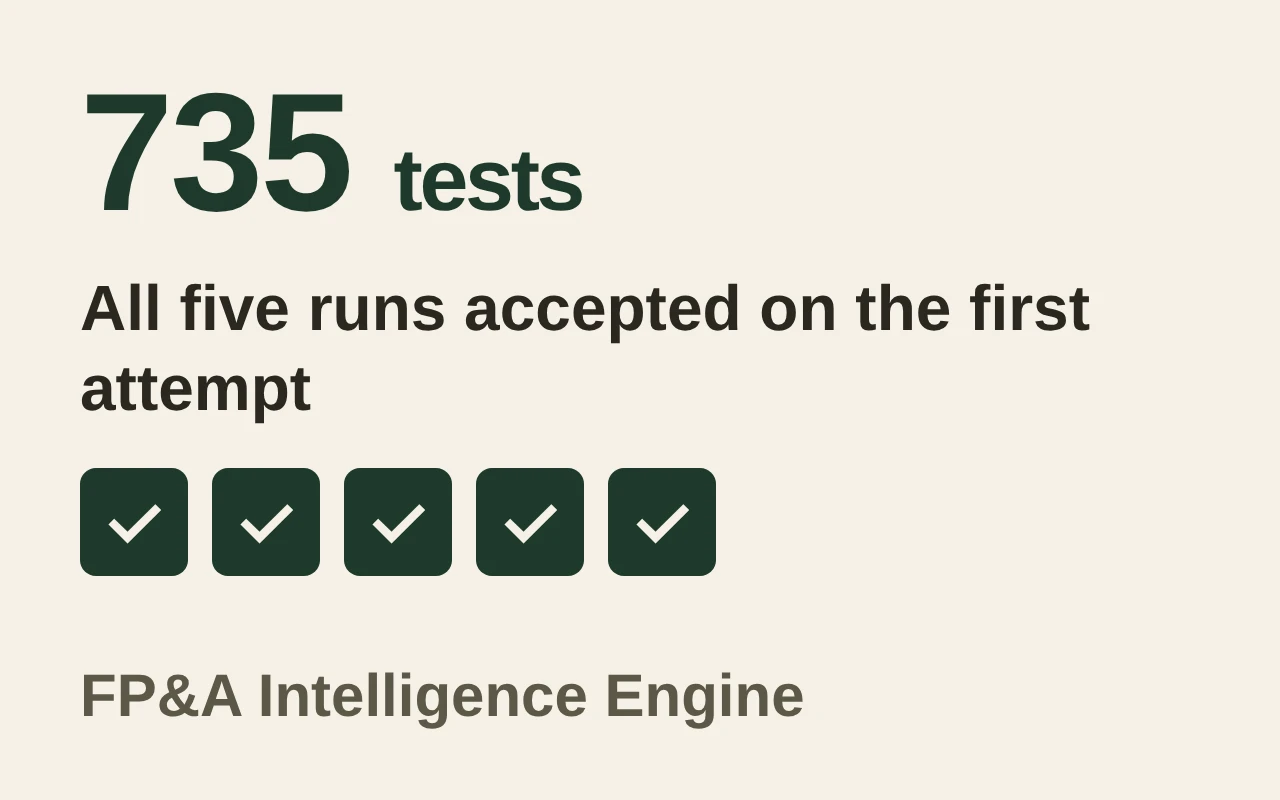
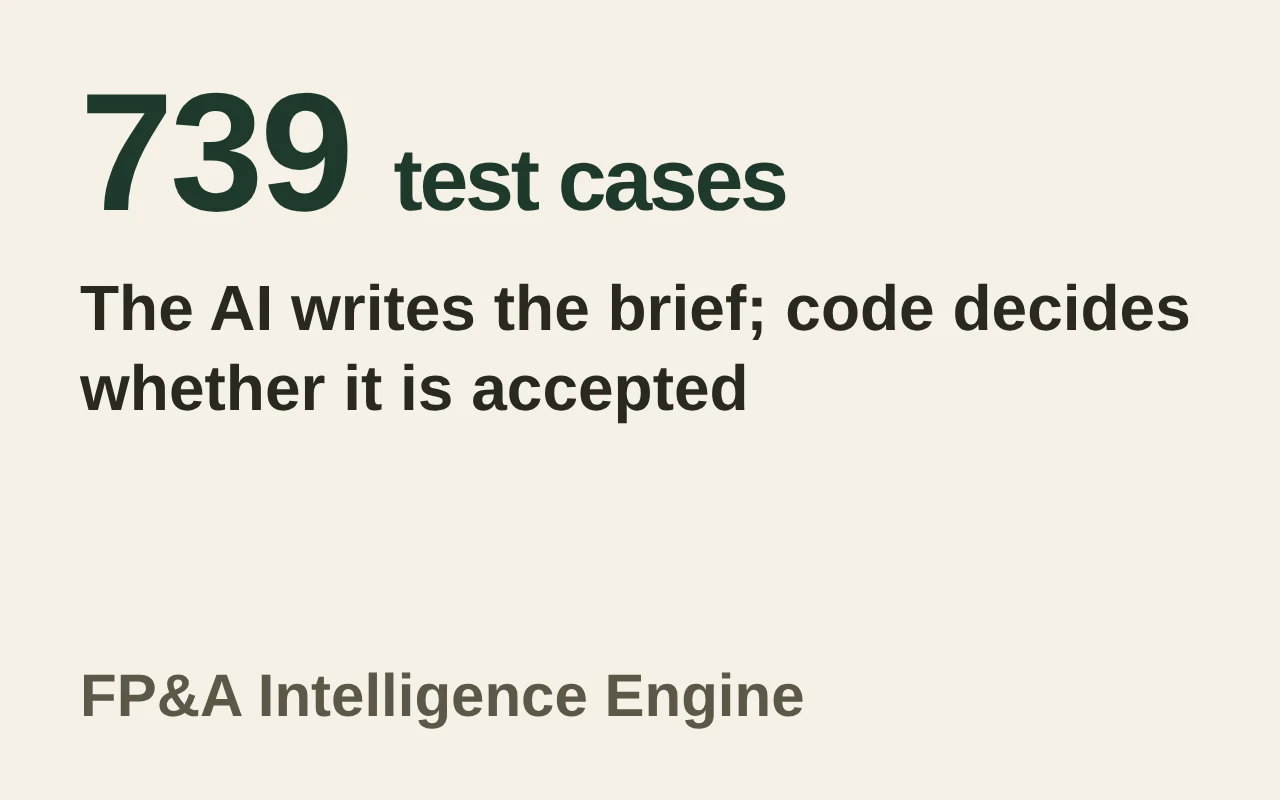
Engine page: say exactly what the validator checks, and what it does not
Copy and labels only, from the read-only audit of fpa-intelligence-engine and
its PR #5 (engine main c91e254).

- Hero, "The problem", "What it produces", "How it works": state what is
  checked (cited IDs exist; figures match a cited fact, reconciliation or
  validated evidence at the written precision; quoted text matches the curated
  excerpt) and what is not; the loader checks the curated benchmark, not the
  filings; statement type is chosen by the model and checked through its
  citations; an unquoted misattributed paraphrase can pass.
- New "What the validator does not check" list (existing section and list
  markup), linking to the engine README section of the same name.
- New "Corrections" note: the misquoted dealer-inventory sentence and the
  incomplete tariff entry found on Oct 30, 2026, corrected against
  Caterpillar's own transcript; the validator now ignores figures from
  unreviewed evidence; packet d726abc6... -> 5eeb00d3....
- The recorded run is labelled as run 1, the only run on the site, made before
  the corrections (engine cd82a39, packet d726abc6...); no live re-run is
  claimed. The five-run figures are attributed to the evaluation summary.
  scripts/export-engine-trace.py and the recorded run are unchanged.
- 735 tests -> 739 automated test cases (card, home Expertise, page).
- Card thumbnail re-rendered (739 test cases; the five-run check marks
  removed) and its alt text regenerated; the other thumbnails are
[…]

diff --git a/src/components/EngineProjectPage.tsx b/src/components/EngineProjectPage.tsx
@@ -8,6 +8,8 @@ import { MEASURE, STACK_BODY, STACK_HEAD, STACK_LABEL, STACK_ROW, STACK_TABLE, S
 
 const ENGINE_REPO = "https://github.com/2samfelix/fpa-intelligence-engine";
 const STATUS_DOC = `${ENGINE_REPO}/blob/main/docs/project_status.md`;
+const README_GAPS = `${ENGINE_REPO}#what-the-validator-does-not-check`;
+const CORRECTIONS_PR = `${ENGINE_REPO}/pull/5`;
 const CATERPILLAR_PAGE = "/projects/caterpillar-demand-quality";
 const TRACE_HEADERS: TraceHeaders = {
   statements: traceJson.statements.map(({ id, kind, severity, text }) => ({ id, kind, severity, text })),
@@ -20,7 +22,7 @@ const STEPS: { title: string; owner: string; body: string }[] = [
   {
     title: "Load and validate",
     owner: "Code",
-    body: "A deterministic loader reads sourced facts and checks them against their evidence.",
+    body: "A deterministic loader reads the hand-curated benchmark files and checks that every fact, source and reference lines up, and that each quote appears in the source excerpt stored with it. Nothing is read from the filings themselves.",
   },
   {
     title: "Calculate and reconcile",
@@ -30,7 +32,7 @@ const STEPS: { title: string; owner: string; body: string }[] = [
   {
     title: "Package",
     owner: "Code",
-    body: "The verified facts go into a fixed, hashed input packet, so every run can be traced to exactly what the model saw.",
+    body: "The facts that pass those checks go into a fixed, hashed input packet, so every run can be traced to exactly what the model saw.",
   },
   {
     title: "Write, then check",
@@ -41,16 +43,28 @@ const STEPS: { title: string; owner: string; body: string }[] = [
 
 const LIMITATIONS = [
   "It is one company and one quarter, with a hand-curated benchmark.",
-  "Five runs show consistency on one input, not general reliability.",
+  "Five runs show consistency on one input, not general reliability, and only run 1 is recorded on this site.",
   "The \"28 / 32\" bridge figure on my Caterpillar page comes from the workbook. The engine independently confirms two bridges (R01 and R02). The three profit bridges (R03 to R05) are left unresolved on purpose, because the data does not support a tie-out.",
   "Assumption disclosure was verified only by offline tests, because all five live runs used a path with no assumptions.",
-  "Some benchmark entries are known to need correction. They are documented in the repo.",
+  "Some benchmark entries are still flagged for review (for example, figures matched by phrase only). They are documented in the repo.",
   "The model chose the severity labels itself, and they varied across runs.",
+];
+
+// From an audit of the engine's validator (Oct 30, 2026); the engine README lists the same gaps.
+const NOT_CHECKED = [
+  "Fiscal periods: a correct figure given the wrong quarter or year passes.",
+  "Direction and sign: \"fell\" written for \"rose\" passes.",
+  "Segment: a correct figure attached to the wrong segment passes.",
+  "Relevance: a cited ID must exist and be the right kind of evidence, not support the sentence.",
+  "Numbers and arithmetic in words: \"about nine billion\" or \"roughly half\" is not checked.",
+  "Paraphrase: attributed wording without quotation marks is not compared with the source.",
+  "Causal claims: \"because of\" or \"driven by\" is not checked against the evidence.",
+  "The filings: quotations are checked against excerpts curated in the benchmark, not against the documents.",
 ];
 
 type StatementType = "FACT" | "INTERPRETIVE" | "LIMITATION";
 
-// Run 1 of the five-run evaluation, quoted unedited. "Linked to" counts come
+// Run 1 of the five-run evaluation (the one recorded on this site), quoted unedited. "Linked to" counts come
 // from the brief's own citations; do not reword or recount.
 const BRIEF_STATEMENTS: { id: string; type: StatementType; linkedTo: string; text: string }[] = [
   {
@@ -204,10 +218,16 @@ export default function EngineProjectPage({
             The AI writes the brief. Code does the math and decides whether the writing is accepted.
           </p>
           <p className="mt-4 max-w-2xl text-base leading-7 text-charcoal-soft">
-            The model only sees verified figures and can only write structured statements that point to them. Every
-            number is checked against the computed values and every quote against its source, and a statement that
-            fails is rejected. That doesn&apos;t mean the briefs are right in judgment. The checks confirm that
-            figures and quotes match the evidence, not that the interpretation is the right one.
+            The model only sees the benchmark&apos;s curated facts and evidence, and can only write structured
+            statements that cite them by ID. Code checks each statement: every ID it cites must exist, every figure
+            must match a fact, reconciliation or validated evidence it cites at the precision written, and text in
+            quotation marks must match the curated source excerpt word for word. Any failure rejects the brief. The checks do not cover fiscal periods,
+            direction, segment, causal claims or whether a citation is relevant, and nothing is compared with the
+            filings themselves (see{" "}
+            <a href="#what-the-validator-does-not-check" className="font-semibold text-forest underline-offset-2 hover:underline">
+              What the validator does not check
+            </a>
+            ). A brief that passes is consistent with its evidence, not necessarily right in judgment.
           </p>
           <div className="mt-8 flex flex-wrap items-center gap-4">
             <a
@@ -239,8 +259,9 @@ export default function EngineProjectPage({
           <SectionHeading>The problem</SectionHeading>
           <p className={`mt-4 text-base leading-7 text-charcoal ${MEASURE}`}>
             AI can write a convincing finance summary, but it can also invent a number or misattribute a quote. In
-            FP&amp;A, one bad figure undermines the whole brief. I built the engine so that code, not the model, is
-            responsible for the math and for accepting or rejecting what the model writes.
+            FP&amp;A, one bad figure undermines the whole brief. I built the engine so that code, not the model, does
+            the math and decides whether a brief is accepted. The code rejects an invented figure and an altered
+            quotation; a misattributed paraphrase written without quotation marks can still pass.
           </p>
         </section>
 
@@ -248,7 +269,9 @@ export default function EngineProjectPage({
           <SectionHeading>What it produces</SectionHeading>
           <p className={`mt-4 text-base leading-7 text-charcoal ${MEASURE}`}>
             This is part of a real brief the engine produced and accepted. It is shown unedited. Each statement carries
-            a type and the evidence it points to, which the validator checks.
+            a type, chosen by the model, and the IDs of the evidence it cites. The validator checks that those IDs
+            exist and that the type fits the kind of evidence cited, not that the evidence supports the sentence beyond
+            its numbers and quotations.
           </p>
           <ul aria-label="Four statements from an accepted brief" className="mt-6 grid grid-cols-1 gap-4 sm:grid-cols-2">
             {BRIEF_STATEMENTS.map((statement) => (
@@ -256,8 +279,13 @@ export default function EngineProjectPage({
             ))}
           </ul>
           <p className={`mt-3 text-xs leading-5 text-charcoal-soft ${MEASURE}`}>
-            Run 1 of 5. Accepted on the first attempt. The full brief has 8 statements; four are shown. This brief was
-            checked against the evidence for the numbers it contains, not for whether its reading of them is right.
+            Run 1 of the five-run evaluation, the only run recorded on this site. Accepted on the first attempt,
+            against the benchmark as it stood before the Oct 30, 2026 corrections (see{" "}
+            <a href="#corrections" className="font-semibold text-forest underline-offset-2 hover:underline">
+              Corrections
+            </a>
+            ). The full brief has 8 statements; four are shown. Its numbers were checked against the facts it cites,
+            not whether its reading of them is right.
           </p>
         </section>
 
@@ -277,7 +305,9 @@ export default function EngineProjectPage({
           <p className="mt-2 flex flex-wrap items-center gap-x-4 gap-y-1 text-xs leading-5 text-charcoal-soft">
             <span>
               Run {TRACE_RUN.run} of {TRACE_RUN.of_runs}, prompt {TRACE_RUN.prompt_version}, model {TRACE_RUN.served_model},
-              packet {TRACE_RUN.packet_hash.slice(0, 12)}, engine commit {TRACE_HEADERS.commit.slice(0, 7)}.
+              packet {TRACE_RUN.packet_hash.slice(0, 12)}, engine commit {TRACE_HEADERS.commit.slice(0, 7)}. Recorded
+              before the Oct 30, 2026 corrections: the current engine (c91e254) builds a different packet (5eeb00d3…),
+              and no live run has been made against it.
             </span>
             <a href={ENGINE_REPO} target="_blank" rel="noopener noreferrer" className="font-semibold text-forest hover:text-forest-dark">
               Engine on GitHub ↗
@@ -360,11 +390,40 @@ export default function EngineProjectPage({
           <p className={`mt-4 text-base leading-7 text-charcoal ${MEASURE}`}>
             I ran the engine five times on the same pinned input. All five briefs were accepted on the first attempt,
             with no retries, no rejections, no provider errors and no number problems flagged. Each brief had 8 to 10
-            statements.
+            statements. Those figures come from the evaluation summary recorded in the engine&apos;s project status; the
+            run records themselves are not stored in either repository, and this site holds one of them (run 1).
           </p>
           <p className={`mt-3 text-xs leading-5 text-charcoal-soft ${MEASURE}`}>
-            Pinned configuration: prompt synthesis_v3, packet version 2, model claude-opus-5-5. Evaluated at commit
-            f33a569, with one small error-message wording fix (72d5299) added afterward.
+            Pinned configuration: prompt synthesis_v3, packet version 2 (hash d726abc6…), model claude-opus-5-5.
+            Evaluated at commit f33a569, with one small error-message wording fix (72d5299) added afterward. The
+            offline suite now has 739 automated test cases (pytest counts each parametrized case separately).
+          </p>
+        </section>
+
+        <section id="what-the-validator-does-not-check" className="mt-12 scroll-mt-8 border-t border-forest/10 pt-12">
+          <SectionHeading>What the validator does not check</SectionHeading>
+          <ul className={`mt-4 list-disc space-y-2 pl-5 text-sm leading-6 text-charcoal-soft marker:text-brass ${MEASURE}`}>
+            {NOT_CHECKED.map((item) => (
+              <li key={item}>{item}</li>
+            ))}
+          </ul>
+          <p className="mt-4 text-sm leading-6 text-charcoal-soft">
+            <a href={README_GAPS} target="_blank" rel="noopener noreferrer" className={linkClass}>
+              The same list in the engine README ↗
+            </a>
+          </p>
+        </section>
+
+        <section id="corrections" className="mt-12 scroll-mt-8 border-t border-forest/10 pt-12">
+          <SectionHeading>Corrections</SectionHeading>
+          <p className={`mt-4 text-base leading-7 text-charcoal ${MEASURE}`}>
+            An audit on Oct 30, 2026 found two benchmark entries that did not match the source: a misquoted
+            dealer-inventory sentence and an incomplete tariff entry. Both were corrected against Caterpillar&apos;s own
+            call transcript, and the validator now ignores figures from evidence that has not been reviewed. The
+            corrections changed the input packet from d726abc6… to 5eeb00d3…, so the recorded run above predates them.{" "}
+            <a href={CORRECTIONS_PR} target="_blank" rel="noopener noreferrer" className={linkClass}>
+              The change on GitHub ↗
+            </a>
           </p>
         </section>
 
@@ -380,8 +439,8 @@ export default function EngineProjectPage({
         <section className="mt-12 border-t border-forest/10 pt-12">
           <SectionHeading>What I&apos;d do next</SectionHeading>
           <p className={`mt-4 text-base leading-7 text-charcoal ${MEASURE}`}>
-            Extract evidence from raw filings with its own validator, correct the known benchmark entries under a new
-            evaluation, and add automated testing on every change.
+            Re-run the live evaluation against the corrected benchmark, review the entries still flagged, extract
+            evidence from raw filings with its own validator, and add automated testing on every change.
           </p>
         </section>
 

diff --git a/src/components/Expertise.tsx b/src/components/Expertise.tsx
@@ -14,9 +14,10 @@ import { useEffect, useLayoutEffect, useRef, useState, type KeyboardEvent } from
 //   Q1 2026 and $400M in Q2 2026), quoted from the 10-Qs on Dealer Inventory.
 // - 1,205 formula cells across the four preview workbooks (Caterpillar 234,
 //   Arm 307, Microsoft x Activision 363, Nike 301), counted in the workbook XML;
-//   735 tests in fpa-intelligence-engine, all passing at the engine's main.
-// - Run 1 of 5 of the engine evaluation; the engine page states all five were
-//   accepted on the first attempt.
+//   739 automated test cases in fpa-intelligence-engine (pytest's count), all passing
+//   at the engine's main (c91e254).
+// - Run 1 of 5 of the engine evaluation, the only run recorded on the site; it was
+//   accepted on the first attempt, before the Oct 30, 2026 benchmark corrections.
 // Images are Playwright captures of the built site (public/expertise).
 const SKILLS = [
   {
@@ -58,7 +59,7 @@ const SKILLS = [
   {
     id: "excel-python",
     name: "Excel and Python",
-    proof: "About 1,200 live formulas across four workbooks, and the FP&A Intelligence Engine with 735 tests passing.",
+    proof: "About 1,200 live formulas across four workbooks, and the FP&A Intelligence Engine with 739 automated test cases passing.",
     image: "/expertise/engine-trace.webp",
     alt: "FP&A Intelligence Engine trace: statement B1 of the accepted brief with the four sourced facts and the reconciliation it cites.",
     caption: "FP&A Intelligence Engine: trace a statement",
@@ -67,7 +68,7 @@ const SKILLS = [
   {
     id: "ai",
     name: "AI / LLM tools",
-    proof: "Accepted run 1 of 5 on a Caterpillar Q2 2026 benchmark. All five were accepted on the first attempt.",
+    proof: "An AI-written brief on a Caterpillar Q2 2026 benchmark, accepted by deterministic checks on the first attempt (run 1, the run recorded on the site).",
     image: "/expertise/ai-accepted-brief.webp",
     alt: "The start of the engine's accepted Caterpillar Q2 2026 brief: statement B1, a fact linked to four facts and one reconciliation.",
     caption: "FP&A Intelligence Engine: accepted brief, run 1 of 5",

diff --git a/src/components/WorkGrid.tsx b/src/components/WorkGrid.tsx
@@ -24,8 +24,9 @@ type CardCopy = {
 // - Microsoft × Activision: Synergy Breakeven!B10, 3,636.67 $mm of required
 //   annual pre-tax synergies ("Solves to EPS-neutral").
 // - Nike: Scenario Dashboard!B42, 439.45 $mm cushion, base case, FY2028E.
-// - FP&A Intelligence Engine: 735 tests passing at the engine's main; the
-//   engine page states all five briefs were accepted on the first attempt.
+// - FP&A Intelligence Engine: 739 automated test cases (pytest's count, parametrized
+//   cases included) passing at the engine's main (c91e254); run 1, the run recorded on
+//   this site, was accepted on the first attempt.
 // - monday.com: figure read at build time from the locked plan workbook's
 //   Executive_Summary (src/lib/mondayPlan.ts), not typed here. The question is a
 //   shortened card version; the project page shows the workbook's full question.
@@ -53,7 +54,7 @@ const CARDS: Record<string, CardCopy> = {
   },
   "fpa-intelligence-engine": {
     question: "AI writes the brief; code does the math and decides whether it's accepted.",
-    answer: [{ figure: "735" }, " tests; all five benchmark runs accepted on the first attempt."],
+    answer: [{ figure: "739" }, " automated test cases; the recorded run was accepted on the first attempt."],
     tags: ["Python", "AI", "Validation"],
   },
   "monday-operating-plan": {
